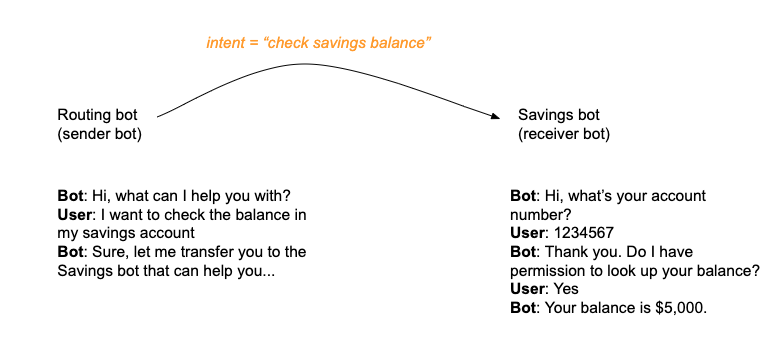
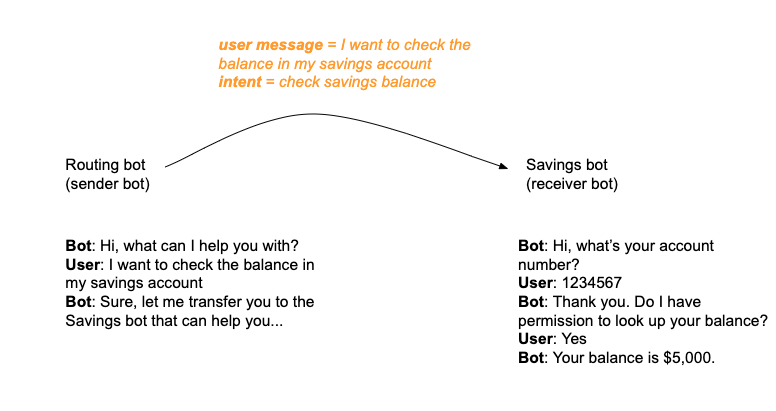
BA-3631 Bot Transfer updates

diff --git a/pages/documents/ConversationalAI/ConversationBuilder/Bots/MultiBotCollaboration.md b/pages/documents/ConversationalAI/ConversationBuilder/Bots/MultiBotCollaboration.md
@@ -20,48 +20,31 @@ However, while it's advantageous to have multiple--even many--bots that automate
 
 A bot-to-bot transfer is a [LivePerson agent escalation](conversation-builder-integrations-liveperson-agent-escalation-integrations.html) where you transfer the conversation to a skill that's assigned to a bot agent in specific. In this way, it's very similar to transferring a conversation to a live agent. The bot must be set up as a user agent; the user agent must be assigned a skill; and the bot must be deployed, as you would normally do to connect a bot to LiveEngage.
 
-Keep in mind that receiver bot is different from the sender bot, so the receiver bot won't have all the context (variables, etc.) that you might have collected in the sender bot. You can share this information between bots using the [Context Session Store](conversation-builder-scripting-functions-manage-the-context-session-store.html).
+Keep in mind that the receiver bot is different from the sender bot, so the receiver bot won't have all the context (variables, etc.) that you might have collected in the sender bot. You can share this information between bots using the [Context Session Store](conversation-builder-scripting-functions-manage-the-context-session-store.html).
 
-### Seamless transfers with the Bot Transfer Context
+### Making transfers seamless
 
-In a bot-to-bot transfer, what makes the transfer *seamless* to the consumer is passing the conversational context--an intent or user message--from the sender bot to the receiver bot. With this information in hand, after the transfer the receiver bot can immediately start the appropriate dialog. The result is a graceful, "warm" hand-off.
+In a bot-to-bot transfer, what makes the transfer *seamless* to the consumer is passing the conversational context--the intent and/or user message--from the sender bot to the receiver bot. With this information in hand, after the transfer the receiver bot can immediately start the appropriate dialog. The result is a graceful, "warm" hand-off.
 
-As an example, examine the illustration below of a routing bot and a savings bot  engaged in a transfer. The routing bot converses with the user and determines the user's intent. It then passes the user's intent to the savings bot. As a result, the savings bot can immediately pick up and handle the user's query. 
+As an example, examine the illustration below of a routing bot and a savings bot  engaged in a transfer. The routing bot converses with the user, determines the user's intent, and passes that information to the savings bot. As a result, the savings bot can immediately pick up and handle the user's query. 
 
-   <img style="width:600px" src="img/ConvoBuilder/bots_collab3.png">
+   <img style="width:650px" src="img/ConvoBuilder/bots_collab3.png">
 
-To pass an intent or user message from the sender bot to the receiver bot in a transfer, do the following in the sender bot:
+To *automatically* pass the conversational context--the intent and/or user message--from the sender bot to the receiver bot in a transfer, simply select the **Bot Transfer Context** checkbox in the [LivePerson Agent Escalation](conversation-builder-integrations-liveperson-agent-escalation-integrations.html) integration. No coding by you is required.
+   
+<img class="fancyimage" style="width:800px" src="img/ConvoBuilder/bots_collab1.png">
 
-1. In the [LivePerson Agent Escalation](conversation-builder-integrations-liveperson-agent-escalation-integrations.html) integration, select the **Bot Transfer Context** checkbox.
+Selecting the **Bot Transfer Context** checkbox enables the use of a Bot Transfer Context object behind the scenes. This object contains the conversational context information and is sent from the sender bot to the receiver bot.
 
-    <img class="fancyimage" style="width:800px" src="img/ConvoBuilder/bots_collab1.png">
+During the transfer, the receiver bot checks for the availability of a Bot Transfer Context object. If the object is available, the bot then checks whether it contains an intent. If an intent isn't available, it then checks whether the object contains a user message. Based on these findings, after the transfer is completed, the receiver bot starts the appropriate dialog, one that's tied to the intent or that's matched to the user message. Otherwise, the fallback message is sent in the receiver bot.
 
-    This enables your use of the Bot Transfer Context object that is sent from the sender bot to the receiver bot during the transfer. Now you can set an intent or user message in the object.
+### Overriding the intent or user message
 
-2. Somewhere in the dialog *before* calling the escalation, use a "bot transfer" function to set an intent or user message in the Bot Transfer Context object. In our example below, we've set a user message, and we've done this in the Pre-Process Code in the integration interaction.
+Occasionally, you might want to override the intent or user message that is passed during a transfer. To do this, somewhere in the dialog *before* calling the escalation, use a "bot transfer" function to override the intent or user message in the Bot Transfer Context object:
 
-    <img class="fancyimage" style="width:800px" src="img/ConvoBuilder/bots_collab2.png">
+* To overview the user message, use [setBotTransferUserMessage](conversation-builder-scripting-functions-get-set-contextual-data.html#set-bot-transfer-user-message).
+* To overide the intent, you can use [setBotTransferDomainName](conversation-builder-scripting-functions-get-set-contextual-data.html#set-bot-transfer-domain-name) with [setBotTransferIntentName](conversation-builder-scripting-functions-get-set-contextual-data.html#set-bot-transfer-intent-name). The system will ascertain and pass the intent ID based on this information. Alternatively, you can use [setBotTransferIntentID](conversation-builder-scripting-functions-get-set-contextual-data.html#set-bot-transfer-intent-id).
 
-You have a few options for setting the intent or user message in the Bot Transfer Context object:
+In our example below, we've overridden the user message, and we've done this in the Pre-Process Code in the integration interaction.
 
-| You can set... | If you do,... | Set the value via...
-| ---- | ---- | ---- |
-| a domain name plus an intent name | you can retrieve the domain name and intent name that you need from the UI. You can also retrieve the intent name via [getDialogStarterIntent](conversation-builder-scripting-functions-get-set-contextual-data.html#get-matched-intent). The system will ascertain and pass the intent ID based on this information. | [setBotTransferDomainName](conversation-builder-scripting-functions-get-set-contextual-data.html#set-bot-transfer-domain-name) and [setBotTransferIntentName](conversation-builder-scripting-functions-get-set-contextual-data.html#set-bot-transfer-intent-name) |
-| an intent ID | you can retrieve the intent ID that you need from the application URL if you're logged into Conversation Builder directly and know how. Otherwise, set the domain name and intent name instead. | [setBotTransferIntentID](conversation-builder-scripting-functions-get-set-contextual-data.html#set-bot-transfer-intent-id) |
-| a user message | specify the string. | [setBotTransferUserMessage](conversation-builder-scripting-functions-get-set-contextual-data.html#set-bot-transfer-user-message) |
-
-During the escalation (transfer), the receiver bot checks for the availability of a Bot Transfer Context object. If the object is available, the bot then checks whether it contains an intent. If an intent isn't available, it then checks whether the object contains a user message. Based on these findings, after the transfer is completed, the receiver bot starts the appropriate dialog, one that's tied to the intent or that's matched to the user message.
-
-### FAQs
-
-#### When using the Bot Transfer Context, which do I set - an intent or a user message?
-
-You can set either, but setting the intent effectively lets you specify the dialog to start. No processing of a user message is required. If you set the user message instead, the receiver bot must match the user message with an intent or pattern to determine the appropriate dialog to start.
-
-#### Can I set both an intent and a user message?
-
-Yes, this is possible.
-
-#### How do I transfer other data from the sender bot to the receiver bot?
-
-You can only set an intent or user message in the Bot Transfer Context object. To transfer other data between the sender bot and receiver bot, use the [Context Session Store](conversation-builder-scripting-functions-manage-the-context-session-store.html).
+<img class="fancyimage" style="width:800px" src="img/ConvoBuilder/bots_collab2.png">

diff --git a/pages/documents/ConversationalAI/ConversationBuilder/ScriptingFunctions/getSetContextualData.md b/pages/documents/ConversationalAI/ConversationBuilder/ScriptingFunctions/getSetContextualData.md
@@ -47,7 +47,11 @@ if (count > 10) {
 
 ### Set bot transfer domain name
 
-Use the `setBotTransferDomainName` function to set a domain name in the Bot Transfer Context object that can be sent from the sender bot to the receiver bot during a bot-to-bot transfer (escalation). This function is intended to be used in conjunction with `setBotTransferIntentName`. For more information, see the discussion on bot-to-bot transfers [here](conversation-builder-bots-bot-to-bot-transfers.html).
+Use the `setBotTransferDomainName` function to set a domain name in the Bot Transfer Context object that can be sent from the sender bot to the receiver bot during a bot-to-bot transfer. You can retrieve the domain name that you need from the UI.
+
+This function is intended to be used in conjunction with `setBotTransferIntentName`, as the system uses both to ascertain and pass an intent ID.
+
+For more information, see the discussion on bot-to-bot transfers [here](conversation-builder-bots-bot-to-bot-transfers.html).
 
 | Function Name | Arguments | Returns |
 | --- | --- | --- |
@@ -61,7 +65,11 @@ botContext.setBotTransferDomainName("Billing");
 
 ### Set bot transfer intent name
 
-Use the `setBotTransferIntentName` function to set an intent name in the Bot Transfer Context object that can be sent from the sender bot to the receiver bot during a bot-to-bot transfer (escalation). This function is intended to be used in conjunction with `setBotTransferDomainName`. For more information, see the discussion on bot-to-bot transfers [here](conversation-builder-bots-bot-to-bot-transfers.html).
+Use the `setBotTransferIntentName` function to set an intent name in the Bot Transfer Context object that can be sent from the sender bot to the receiver bot during a bot-to-bot transfer. You can retrieve the intent name that you need from the UI or via `getDialogStarterIntent`.
+
+This function is intended to be used in conjunction with `setBotTransferDomainName`, as the system uses both to ascertain and pass an intent ID.
+
+For more information, see the discussion on bot-to-bot transfers [here](conversation-builder-bots-bot-to-bot-transfers.html).
 
 | Function Name | Arguments | Returns |
 | --- | --- | --- |
@@ -76,7 +84,9 @@ botContext.setBotTransferIntentName("billing question");
 
 ### Set bot transfer intent ID
 
-Use the `setBotTransferIntentId` function to set an intent ID in the Bot Transfer Context object that can be sent from the sender bot to the receiver bot during a bot-to-bot transfer (escalation). For more information, see the discussion on bot-to-bot transfers [here](conversation-builder-bots-bot-to-bot-transfers.html).
+Use the `setBotTransferIntentId` function to set an intent ID in the Bot Transfer Context object that can be sent from the sender bot to the receiver bot during a bot-to-bot transfer. You can retrieve the intent ID that you need from the application URL if you're logged into Conversation Builder directly and know how. Otherwise, use `setBotTransferDomainName` with `setBotTransferIntentName` instead.
+
+For more information, see the discussion on bot-to-bot transfers [here](conversation-builder-bots-bot-to-bot-transfers.html).
 
 | Function Name | Arguments | Returns |
 | --- | --- | --- |
@@ -90,7 +100,7 @@ botContext.setBotTransferIntentId("d46688d7-7ec2-44a4-a09c-b500f728ee05");
 
 ### Set bot transfer user message
 
-Use the `setBotTransferUserMessage` function to set a user message in the Bot Transfer Context object that can be sent from the sender bot to the receiver bot during a bot-to-bot transfer (escalation). For more information, see the discussion on bot-to-bot transfers [here](conversation-builder-bots-bot-to-bot-transfers.html).
+Use the `setBotTransferUserMessage` function to set a user message in the Bot Transfer Context object that can be sent from the sender bot to the receiver bot during a bot-to-bot transfer. For more information, see the discussion on bot-to-bot transfers [here](conversation-builder-bots-bot-to-bot-transfers.html).
 
 | Function Name | Arguments | Returns |
 | --- | --- | --- |

diff --git a/pages/documents/ConversationalAI/ConversationBuilder/Integrations/integrations_LivePersonAgentEscalation.md b/pages/documents/ConversationalAI/ConversationBuilder/Integrations/integrations_LivePersonAgentEscalation.md
@@ -29,7 +29,7 @@ For information on performing bot-to-bot transfers in specific, see [here](conve
     - **Agent Skill Id**: Specify the ID of the skill to which to transfer the conversation. The skill is defined in LiveEngage. Here you can specify the ID using a bot context variable like `{$botContext.skillId}`, or you can enter a direct, numeric value.
         
         When the escalation is attempted, the Agent Skill Id is evaluated first; if it isn't numeric, the fallback message is sent to the user. If the value is numeric, but the bot doesn't respond for more than 3 minutes, an attempt is made to transfer the escalation to the fallback skill ID *if one is specified in the [agent connector](conversation-builder-testing-deployment-deploying-to-liveengage.html#add-an-agent-connector)*. Otherwise, the escalation fails. For information on handling failures, see below [here](conversation-builder-integrations-liveperson-agent-escalation-integrations.html#handle-transfer-failures). 
-    - **Bot Transfer Context**: Used for bot-to-bot escalations (transfers) only. Select this to enable your use of the Bot Transfer Context object that can be sent from the sender bot to the receiver bot during a transfer. Once enabled, before calling the integration, you can use scripting functions to set an intent or user message in the object. This lets the receiver bot know the appropriate dialog to start after the transfer. For more information, see the discussion on bot-to-bot transfers [here](conversation-builder-bots-bot-to-bot-transfers.html).
+    - **Bot Transfer Context**: Used for bot-to-bot escalations (transfers) only. Select this to *automatically* pass the conversational context--the intent and/or user message--from the sender bot to the receiver bot. This lets the receiver bot know the appropriate dialog to start after the transfer. For more information, see the discussion on bot-to-bot transfers [here](conversation-builder-bots-bot-to-bot-transfers.html).
     - **Message to User**: Use this field to guarantee that the user will see a message prior to being transferred, something like, “Hold on while I connect you with an agent.” You can enter either static text, use a variable, or a combination of both. The system will send this message as a part of the transfer API post body. This field is required, so if you don't want to send a message, enter "BLANK_MESSAGE" here. That satisfies the underlying, system requirement for a message, but it doesn't actually send one. 
     - **Transform Result Script**: If applicable, use this section to write JavaScript code that transforms the raw result (typically in JSON format), so you can use the information in the bot's dialog. For more on this, see [Transform an API result](conversation-builder-integrations-integration-basics.html#transform-an-api-result).
     - **Custom Data Fields**: Add the fields that will store the result data in key/value pairs. Users who are tasked with creating bots can use and display this data in interactions by referencing these fields as described [here](conversation-builder-interactions-interaction-basics.html#display-variables-in-interactions).
